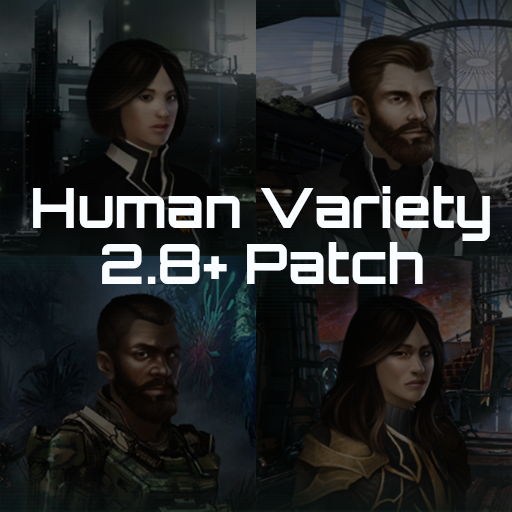
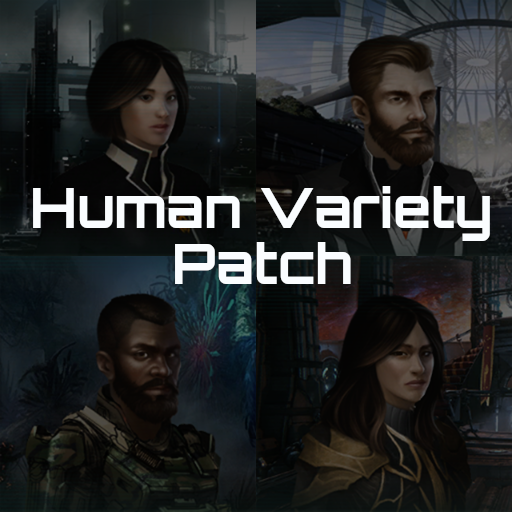
Updated descriptor to 3.0 No changes needed. Universal thumbnail.

Changed region(s): [[0.1875, 0.4688, 0.8438, 0.5625]]

diff --git a/README.md b/README.md
@@ -1,4 +1,4 @@
-This patch updates a single file to make [url=https://steamcommunity.com/sharedfiles/filedetails/?id=1074841707]Human Variety[/url] work in Stellaris 2.7+.
+This patch updates a single file to make [url=https://steamcommunity.com/sharedfiles/filedetails/?id=1074841707]Human Variety[/url] work in Stellaris 3.0, 2.8+ and 2.7+.
 
 \prescripted_countries\00_top_countries.txt
 
